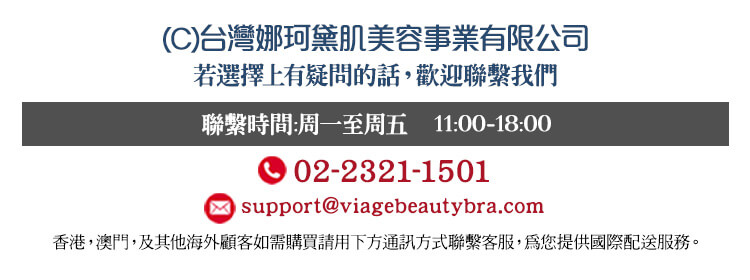
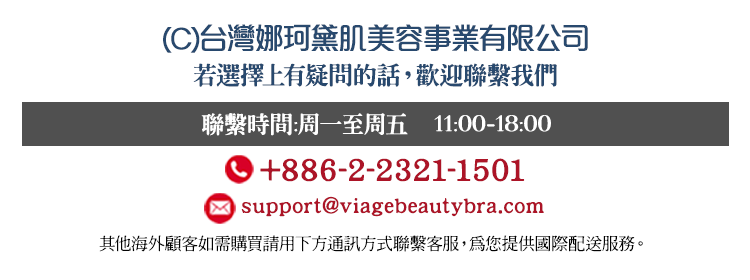
20211215_img contact & cart update

Changed region(s): [[0.0613, 0.8286, 0.92, 0.9143], [0.276, 0.5429, 0.7053, 0.6571]]

diff --git a/index.html b/index.html
@@ -7,7 +7,7 @@
         content="日本夜間育乳術，告別外擴、下垂，立體有感好胸型！日台各大媒體熱烈報導，關愛自己的女性都在穿。白天穿鋼圈內衣，運動時穿運動內衣，睡覺時怎麼能放任胸部走山7~8小時？只要晚上正確的穿上晚安內衣，就能在睡覺的時候讓胸部也得到支撐，長久以往胸部脂肪固定在這個最佳的形狀，達到形狀記憶的效果！">
     <meta name="keywords" content="viage,viage內衣,晚安內衣,夜晚美胸,Viage晚安立體美型內衣">
     <!-- FB-->
-    <meta property="og:url" content="https://viagebeautybra.com/vgsg">
+    <meta property="og:url" content="https://viagebeautybra.com/sg/vgsg/">
     <meta property="og:type" content="website">
     <meta property="og:title" content="Viage 晚安內衣">
     <meta property="og:site_name" content="Viage 晚安內衣" />
@@ -21,38 +21,6 @@
     <meta name="google-site-verification" content="pCcxW19gvZyZKQUa5lqnK7vegyQo6L3rKf5nxlsHTSk" />
     <!-- 編集削除禁止※スマホ最適化※編集削除禁止 -->
     <meta name="viewport" content="width=device-width, initial-scale=1, maximum-scale=1, user-scalable=yes" />
-    <!-- 購物車廠商禁止刪除區塊 -->
-    <link rel="stylesheet" href="../CommonFiles/plugin/multi-product/css/multi-product.css">
-    <style>
-        .navbar {
-            z-index: 999;
-        }
-
-        #lp_form {
-            font-weight: 400;
-        }
-
-        #lp_form .orderbtn a {
-            color: #ffffff;
-        }
-
-        #lp_form ::before,
-        #lp_form ::after {
-            box-sizing: content-box;
-        }
-
-        #lp_form img {
-            margin: 0;
-        }
-
-        #selectedProductInfo .size-title {
-            width: 60px;
-        }
-
-        #langCvsMapBtn {
-            color: #ffffff;
-        }
-    </style>
     <!-- ▼自由編集箇所▼ -->
     <link rel="stylesheet" href="css/bootstrap.min.css">
     <link rel="stylesheet" href="https://use.fontawesome.com/releases/v5.7.2/css/all.css"
@@ -61,15 +29,15 @@
     <link rel="stylesheet" type="text/css" href="slick/slick.css" />
     <link rel="stylesheet" type="text/css" href="slick/slick-theme.css" />
     <link rel="stylesheet" href="css/main.css" />
-    <!-- <link rel="stylesheet" href="css/buybtn.css" type="text/css" media="all"> -->
-    <link rel="stylesheet" href="css/nav.css" type="text/css" media="all">
     <link rel="stylesheet" href="css/modal.css">
     <link rel="stylesheet" href="css/style.css" type="text/css" media="all">
 
     <script src="https://code.jquery.com/jquery-3.3.1.slim.min.js"
         integrity="sha384-q8i/X+965DzO0rT7abK41JStQIAqVgRVzpbzo5smXKp4YfRvH+8abtTE1Pi6jizo"
         crossorigin="anonymous"></script>
-
+    <!-- ※LP用|編集削除禁止 -->
+    <link href="https://viagebeautybra.com/VCommonFiles/css/app.css" rel="stylesheet" />
+    <!-- ※LP用|編集削除禁止※ -->
     <!-- Google Tag Manager 20211210-->
     <script>(function (w, d, s, l, i) {
             w[l] = w[l] || []; w[l].push({
@@ -230,10 +198,10 @@
                 </div>
                 <div id="contact">
                     <div class="PC">
-                        <img src="./img/21.jpg" style="width:60%" alt="">
+                        <img src="./img/21.png" style="width:60%" alt="">
                     </div>
                     <div class="SP">
-                        <img src="./img/21.jpg" alt="">
+                        <img src="./img/21.png" alt="">
                     </div>
                 </div>
 
@@ -241,12 +209,12 @@
                     <ul>
                         <li>
                             <div class="PC">
-                                <a href="https://www.facebook.com/viage.hk/" target="blank">
+                                <a href="https://www.facebook.com/Viage.sg/" target="blank">
                                     <img src="./img/fb btn.png" style="width:40%">
                                 </a>
                             </div>
                             <div class="SP">
-                                <a href="https://www.facebook.com/viage.hk/" target="blank">
+                                <a href="https://www.facebook.com/Viage.sg/" target="blank">
                                     <img src="./img/SP_fb btn.png" style="width:60%">
                                 </a>
                             </div>
@@ -324,21 +292,13 @@
         <!-- contents_wait End -->
         <!-- 編集削除禁止※ちょっと待ってページ※編集削除禁止 -->
         <br>
-        <!-- ※編集削除禁止ACCESS購入カート※編集削除禁止 -->
-        <form id="lp_form" name="lp_form" method="POST" data-nosnippet></form>
-        <!-- ※編集削除禁止ACCESS購入カート※編集削除禁止 -->
+        <!-- ※LP用|編集削除禁止 -->
+        <div id="acs_lp_form"></div>
+        <script src="https://viagebeautybra.com/VCommonFiles/js/app.min.js"></script>
+        <!-- ※LP用|編集削除禁止 -->
         <br>
     </div>
     <!-- wrapper End -->
-    <!-- 購物車廠商禁止刪除區塊 -->
-    <script src="acsJs/setting.js?ver=20200619"></script>
-    <script src="../CommonFiles/js/jquery-3.3.1.min.js"></script>
-    <script src="../CommonFiles/js/app_aftee.min.js"></script>
-    <script src="../CommonFiles/js/ga_param_cookie.js?ver=20200326"></script>
-    <script src="acsJs/multi-product.setting.js?ver=20210819"></script>
-    <script src="../CommonFiles/plugin/multi-product/js/multi-product.init.js?ver=20210818"></script>
-    <script src="../CommonFiles/js/other.js?ver=20211101"></script>
-    <!-- <script src="acsJs/multi-product_gift_with_purchase.js?ver=20201202"></script> -->
     <!-- Google Tag Manager※不要な場合、削除可 -->
     <script type="text/javascript">
         callGTM();
